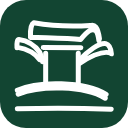
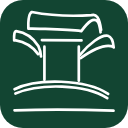
아이콘 배치 조정, 팝업 아이콘 테마별 표시 (1.7.9)
- 툴바 아이콘을 위로 올리고 세로로 조금 늘림
- 팝업 제목 앞 아이콘은 배경 없이 라이트 진녹색, 다크 흰색 선
- 팝업 아래 저장소 표기를 영어로

diff --git a/popup.html b/popup.html
@@ -121,11 +121,17 @@
         gap: 8px;
       }
 
-      /* 툴바 아이콘과 같은 그림을 제목 앞에 둔다(1.7.8). */
+      /* 툴바 아이콘과 같은 그림을 제목 앞에 둔다. 배경 없이 선만 그리고,
+         색은 성대 진녹색(#124532), 어두운 화면에서는 흰색이다. 원본: docs/extensions/icampus-check-icon/ */
       .title-icon {
         width: 28px;
         height: 28px;
         flex-shrink: 0;
+        color: #124532;
+      }
+
+      .dark-mode .title-icon {
+        color: #ffffff;
       }
 
       .btn {
@@ -650,7 +656,7 @@
           <span class="tooltip">어둡게 보기</span>
         </span>
       </button>
-      <h1><img class="title-icon" src="icons/icon128.png" alt="" />아캠 플러스</h1>
+      <h1><svg class="title-icon" viewBox="10.8 9.0 105.9 104.7" aria-hidden="true"><g transform="translate(-22 -92.52) scale(0.18 0.39)" fill="none" stroke="currentColor" stroke-width="1.6" stroke-linecap="round" stroke-linejoin="round"><path d="M 280,311 C 278,288 285,271 299,268 C 390,276 506,280 631,276 C 655,272 674,280 684,314 M 285,310 C 368,312 492,312 574,317 C 614,292 643,281 666,293 C 674,299 678,309 681,320" vector-effect="non-scaling-stroke"/><path d="M 201,341 C 199,326 203,317 212,317 C 259,320 303,332 335,355 C 345,365 349,374 350,382 M 205,340 C 254,344 301,354 334,376" vector-effect="non-scaling-stroke"/><path d="M 568,377 C 617,350 683,326 721,329 C 737,331 751,342 754,359 M 570,386 C 629,367 704,348 751,357" vector-effect="non-scaling-stroke"/><path d="M 355,340 L 575,341 M 369,357 L 369,442 M 560,357 L 560,444" vector-effect="non-scaling-stroke"/><path d="M 203,466 C 325,438 597,439 723,478 M 208,477 C 343,451 594,452 718,489" vector-effect="non-scaling-stroke"/><path d="M 203,520 Q 464,516 753,521" vector-effect="non-scaling-stroke"/></g></svg>아캠 플러스</h1>
       <button id="refresh-button" class="btn" aria-label="새로고침">
         <span class="tooltip-container">
           <span class="tooltip">새로고침</span>
@@ -710,7 +716,7 @@
           >moseoridev</a
         >
         <br />
-        아캠 플러스 by
+        iCampus Plus by
         <a href="https://github.com/aniseongu" target="_blank">aniseongu</a>
         |
         <a href="https://github.com/aniseongu/icampus-plus" target="_blank"

diff --git a/README.md b/README.md
@@ -6,7 +6,7 @@
 
 성균관대학교 아이캠퍼스의 남은 강의와 과제를 한곳에서 보고, 아이캠퍼스를 어두운 화면으로 쓸 수 있게 해 주는 브라우저 확장 프로그램
 
-![version](https://img.shields.io/badge/version-1.7.8-124532)
+![version](https://img.shields.io/badge/version-1.7.9-124532)
 ![manifest](https://img.shields.io/badge/Manifest-V3-124532)
 ![browser](https://img.shields.io/badge/Whale%20%7C%20Chrome-Chromium%20150-555555)
 
